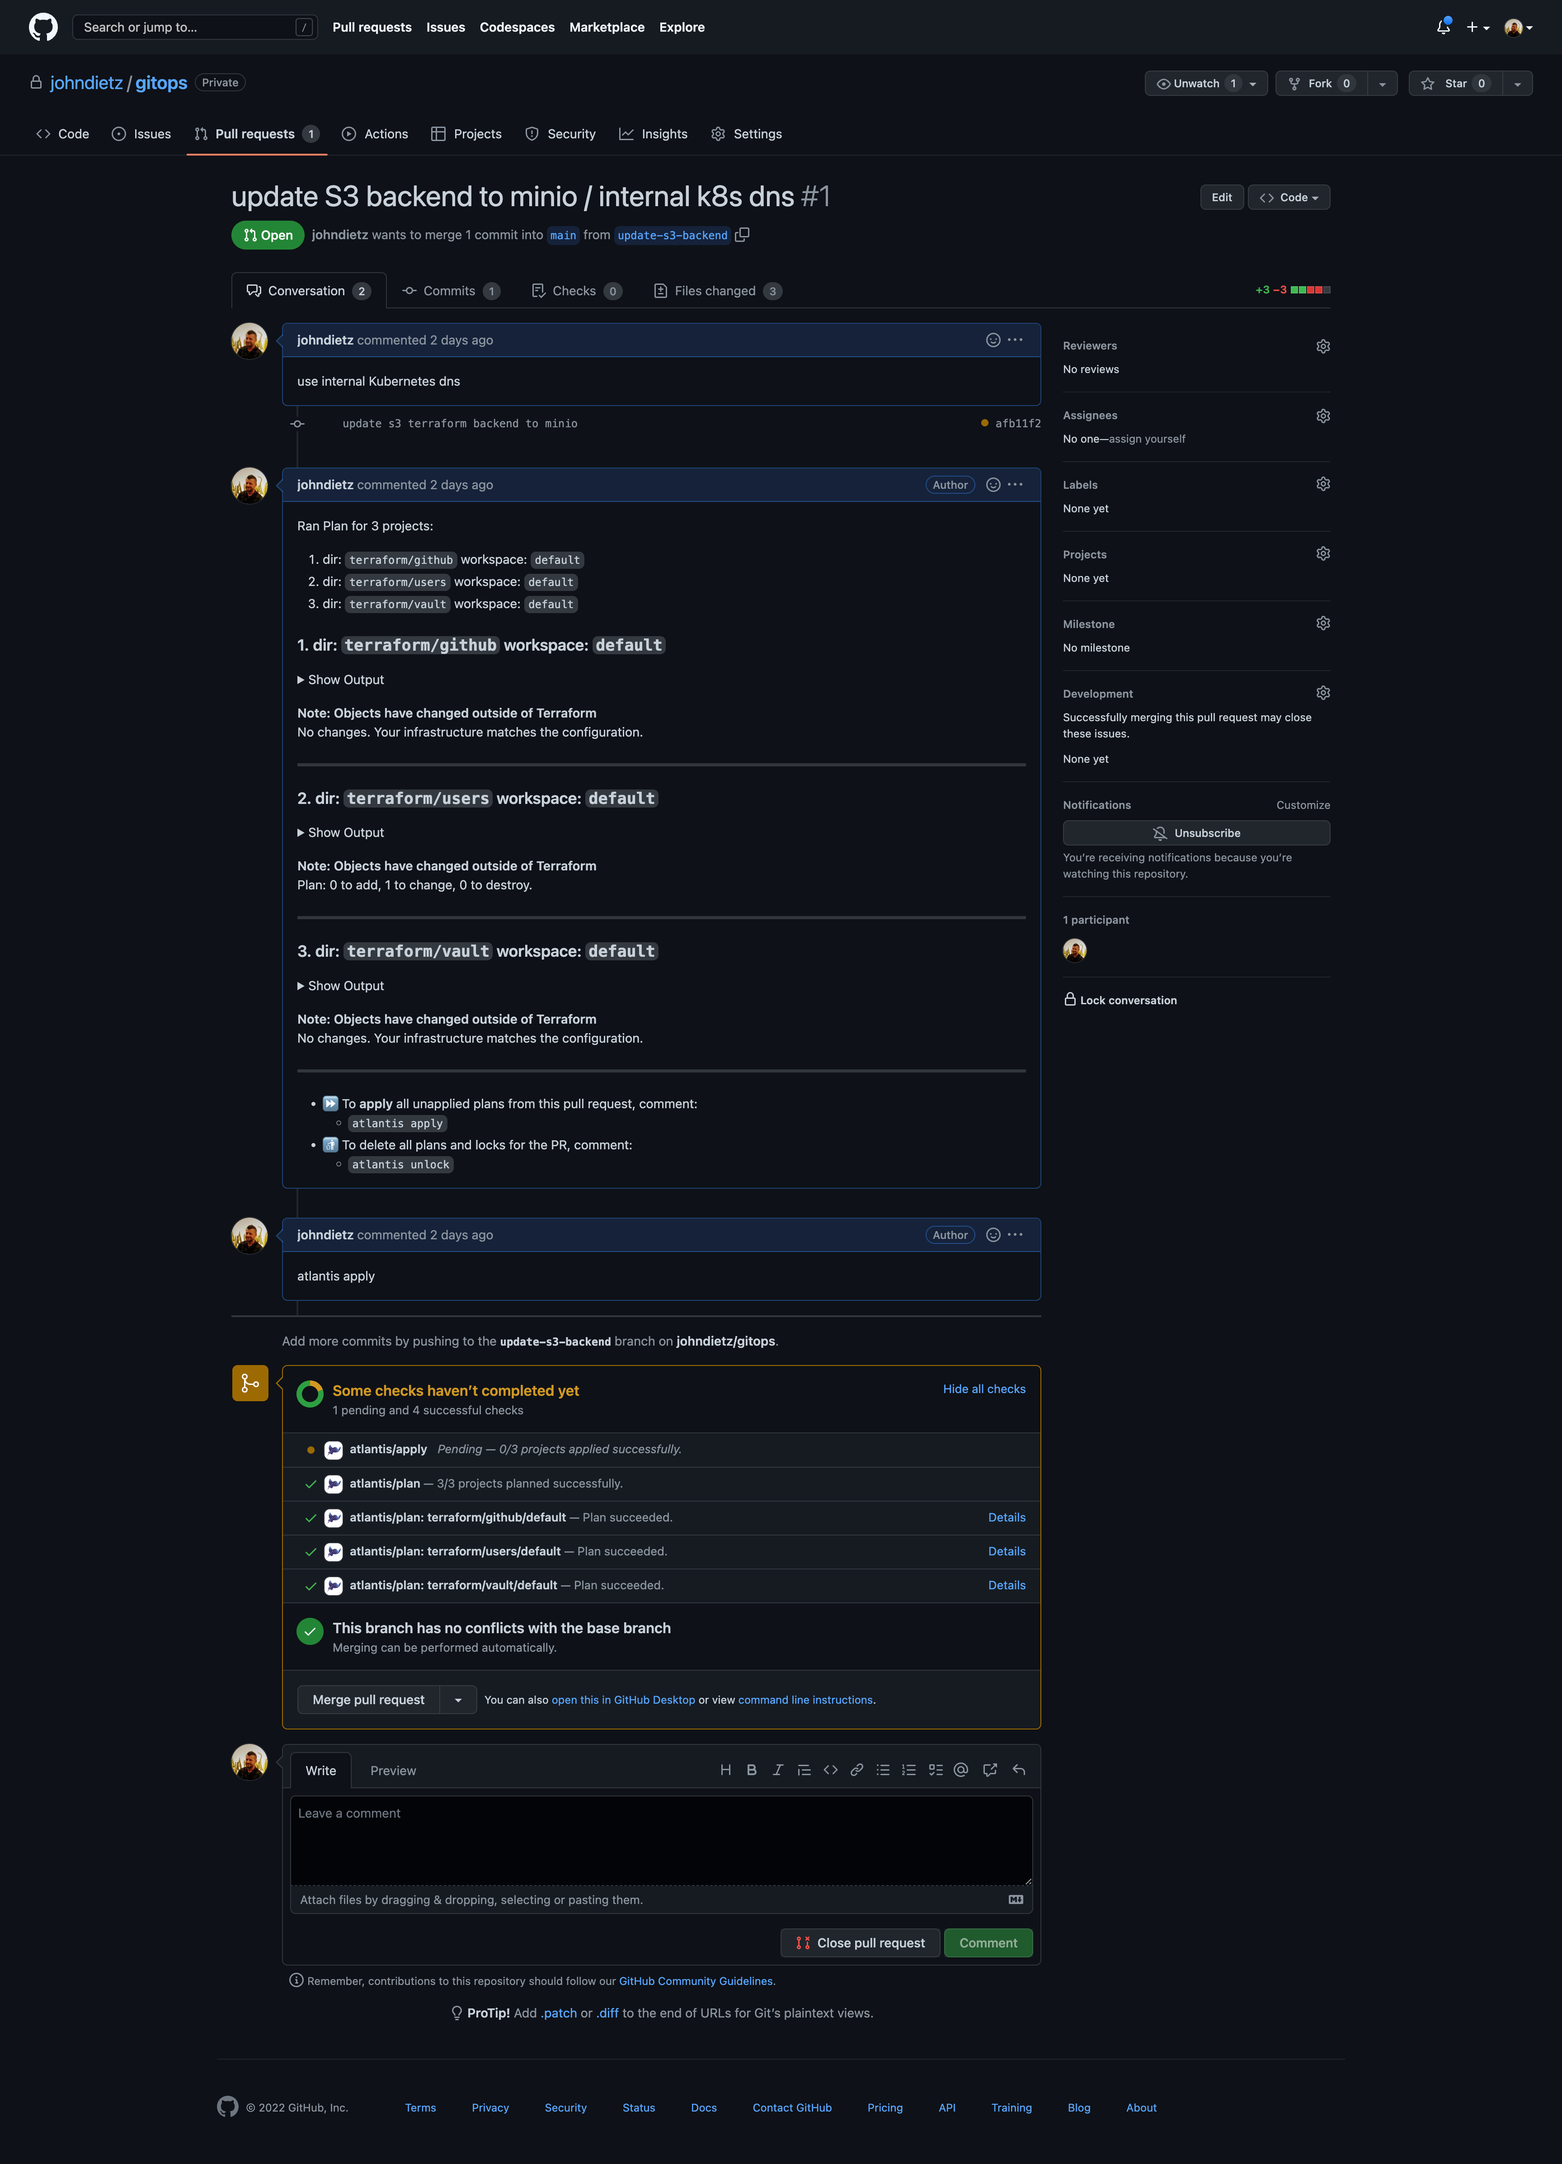
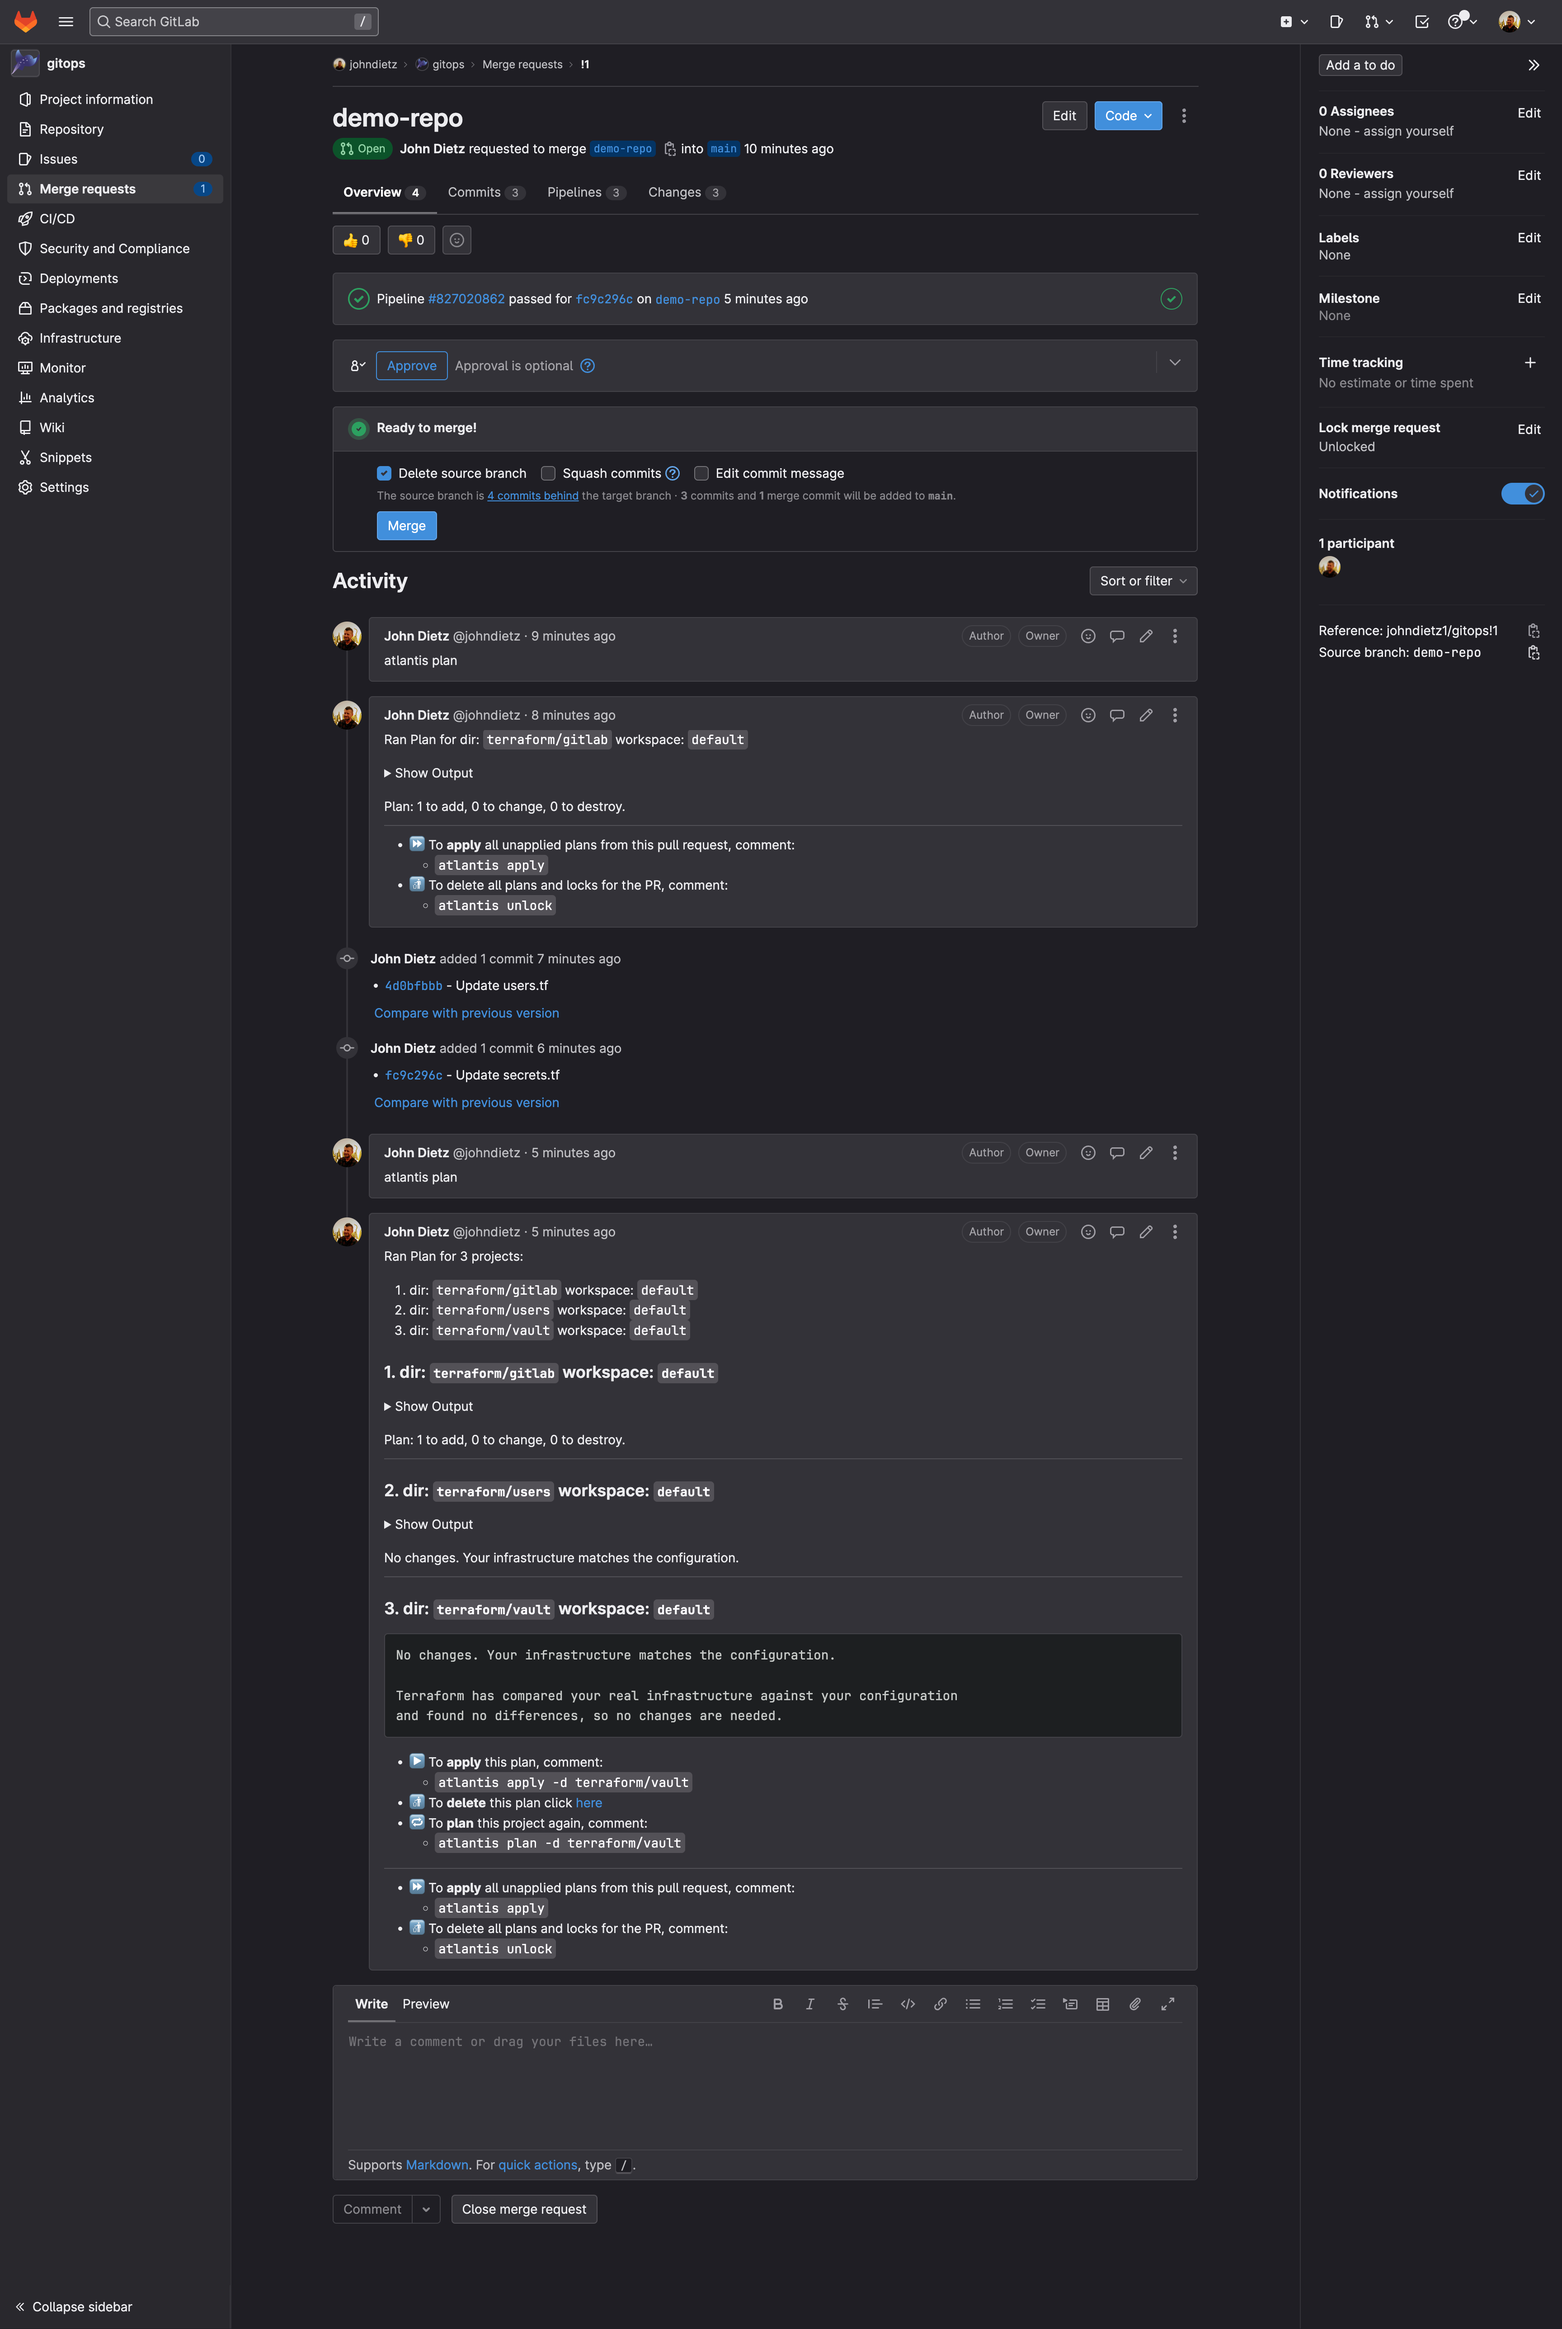
adding gitlab atlantis image

diff --git a/docs/kubefirst/local/gitlab/user-creation.md b/docs/kubefirst/local/gitlab/user-creation.md
@@ -38,7 +38,6 @@ git push --set-upstream origin new-user
 
 Now, create a merge request. This will kick off the Atlantis workflow. Within a minute or so, a comment will appear on the merge request that shows the Terraform plan with the changes it will be making to your infrastructure.
 
-<!-- TODO: 2.0 - fix this image for a GitLab one -->
 ![Atlantis comments example](../../../img/kubefirst/local/atlantis-comments.png)
 
 To apply these changes, you or someone in the organization can submit a comment on that merge request with the following text: `atlantis apply`. Doing so will instruct Atlantis to apply the plan. It will report back with the results within a minute or so.

diff --git a/docs/kubefirst/local/gitlab/repositories.md b/docs/kubefirst/local/gitlab/repositories.md
@@ -41,5 +41,4 @@ GitLab's Terraform provider provides [more configuration options](https://regist
 
 To make infrastructure and configuration changes with Terraform, simply open a merge request in the `gitops` repository. Your merge request will automatically provide plans, state locks, and applies, and even comment in the merge request itself. You'll have a simple, peer reviewable, auditable changelog of all infrastructure and configuration changes.
 
-<!-- TODO: 2.0 - need atlantis pull request gitlab image -->
 ![Atlantis Example on GitLab](../../../img/kubefirst/local/atlantis.png)

diff --git a/docs/kubefirst/civo/gitlab/user-creation.md b/docs/kubefirst/civo/gitlab/user-creation.md
@@ -44,7 +44,6 @@ git push --set-upstream origin new-user
 
 Create a merge request. This will kick off the Atlantis workflow. Within a minute or so of submitting the merge request, a comment will appear on the merge request that shows the Terraform plan with the changes it will be making to your infrastructure.
 
-<!-- TODO: 2.0 - need atlantis merge request gitlab image -->
 ![atlantis comments](../../../img/kubefirst/local/atlantis-comments.png)
 
 To apply these changes, you or someone in the organization can submit a comment on that merge request with the following comment text:

diff --git a/docs/kubefirst/civo/gitlab/repositories.md b/docs/kubefirst/civo/gitlab/repositories.md
@@ -38,5 +38,4 @@ module "your_repo_name" {
 
 To make infrastructure and configuration changes with Terraform, simply open a pull request against any of the terraform directory folders in the `gitops` repository. Your pull request will automatically provide plans, state locks, and applies, and even comment in the merge request itself. You'll have a simple, peer reviewable, auditable changelog of all infrastructure and configuration changes.
 
-<!-- TODO: 2.0 - get gitlab image -->
 ![Atlantis GitLab](../../../img/kubefirst/local/atlantis.png)
